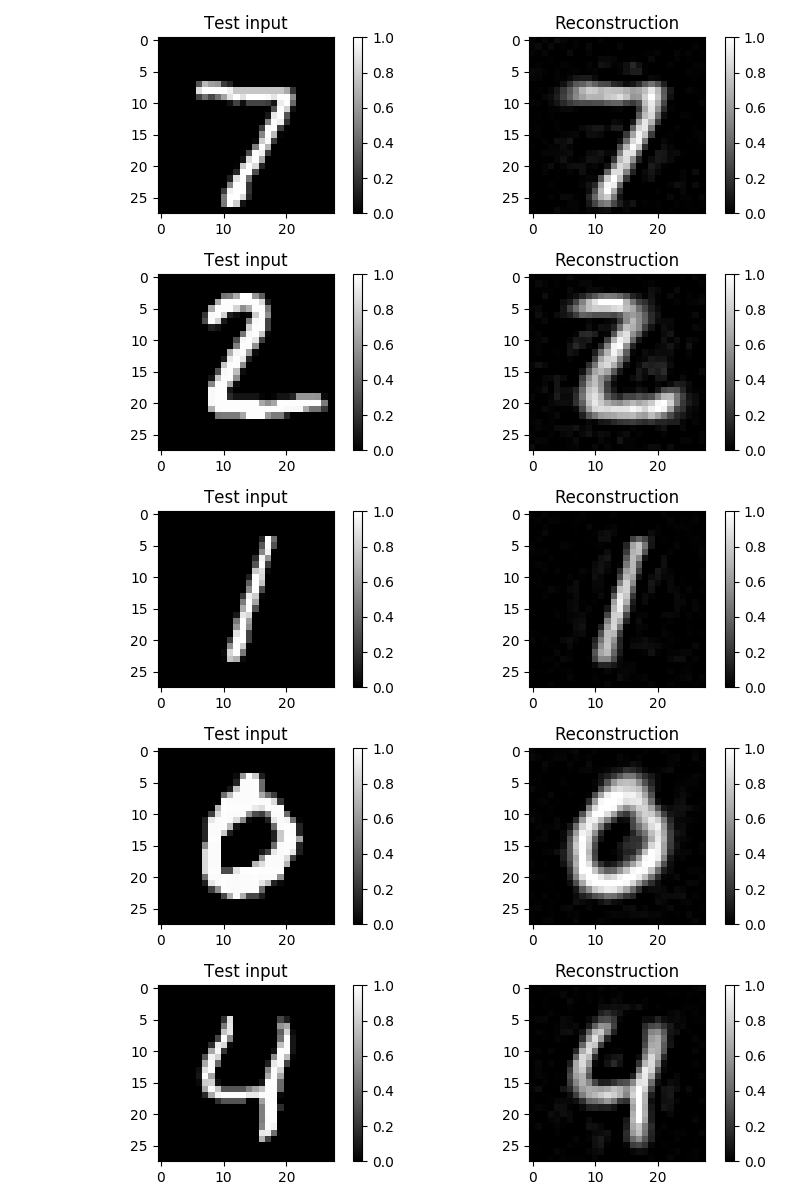
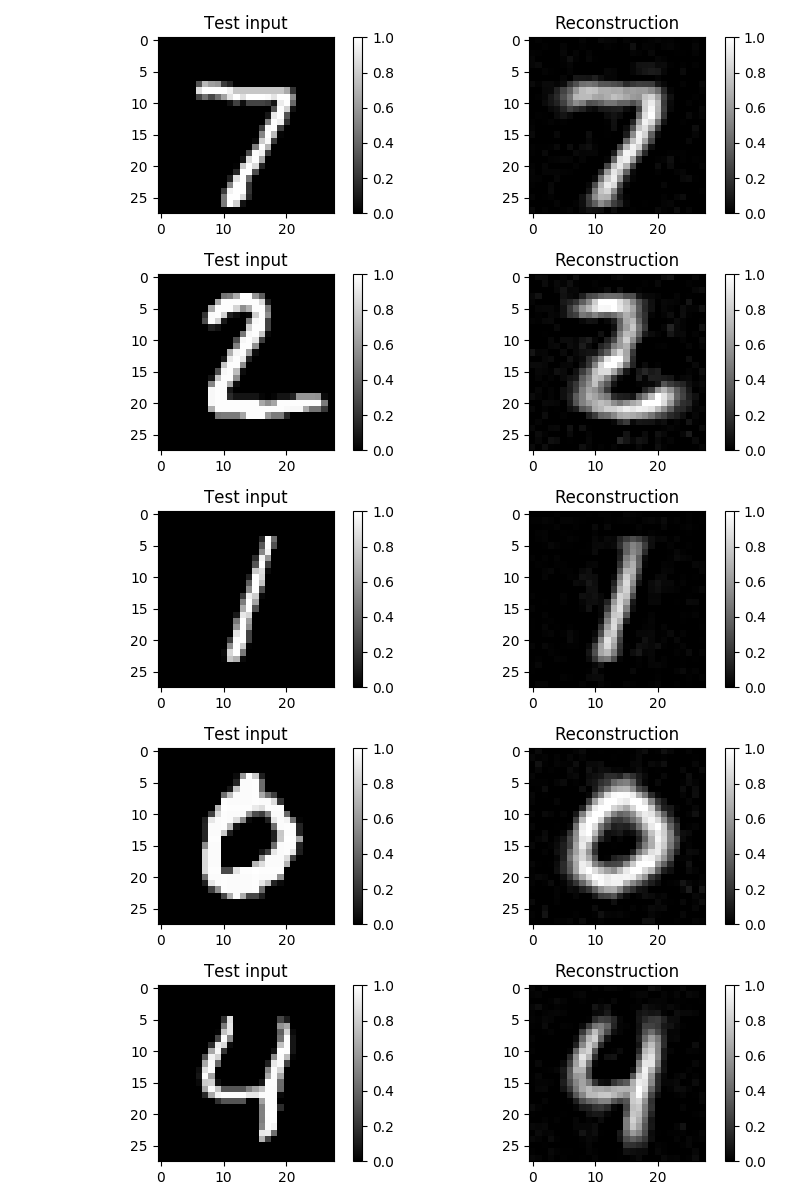
test noisy reconstruction

diff --git a/train_semi_supervised.py b/train_semi_supervised.py
@@ -11,6 +11,7 @@ from VAE.classifier import softmax_classifier
 from VAE.semi_supervised.decoder import generator_network
 from VAE.semi_supervised.encoder import recognition_network
 from VAE.utils.MNSIT_prepocess import preprocess_train_data
+from VAE.utils.distributions import tf_normal_logpdf
 from VAE.utils.metrics import cls_accuracy, print_test_accuracy, convert_labels_to_cls, plot_images
 
 sys.path.append(os.getcwd())
@@ -119,7 +120,7 @@ def compute_unlabeled_loss():
 
 
 def reconstruction_loss():
-    return tf.reduce_sum(tf.squared_difference(x_hat, x), 1)
+    return -tf.reduce_sum(tf_normal_logpdf(x, x_hat, x_logvar), axis=1)
 
 
 def predict_cls(images, labels, cls_true):
@@ -184,7 +185,7 @@ if __name__ == '__main__':
     # Encoder Model
     z_latent_rep, recognition_loss, y_regularization_loss, y_logits, weights = recognition_network(FLAGS, x)
     # Decoder Model
-    x_hat = generator_network(FLAGS=FLAGS, y_logits=y_logits, z_latent_rep=z_latent_rep)
+    x_hat, x_logvar = generator_network(FLAGS=FLAGS, y_logits=y_logits, z_latent_rep=z_latent_rep)
     # Loss and Optimization
     labeled_loss = compute_labeled_loss()
     unlabeled_loss = compute_unlabeled_loss()

diff --git a/VAE/semi_supervised/decoder.py b/VAE/semi_supervised/decoder.py
@@ -9,6 +9,7 @@ def generator_network(FLAGS, y_logits, z_latent_rep):
     w_h3, b_h3 = create_h_weights('h3', 'decoder', [FLAGS['latent_dim'], FLAGS['decoder_h_dim']])
     w_h4, b_h4 = create_h_weights('h4', 'decoder', [FLAGS['decoder_h_dim'], FLAGS['decoder_h_dim']])
     w_mu, b_mu = create_h_weights('mu', 'decoder', [FLAGS['decoder_h_dim'], FLAGS['input_dim']])
+    w_var, b_var = create_h_weights('var', 'decoder', [FLAGS['decoder_h_dim'], FLAGS['input_dim']])
     # Model
     # Decoder hidden layer
     h3 = activated_neuron(pz1_given_z2y(FLAGS=FLAGS, y_logits=y_logits, z_latent_rep=z_latent_rep), w_h3, b_h3)
@@ -16,8 +17,9 @@ def generator_network(FLAGS, y_logits, z_latent_rep):
 
     # Reconstruction layer
     x_mu = non_activated_neuron(h4, w_mu, b_mu)
+    x_logvar = non_activated_neuron(h4, w_var, b_var)
     tf.summary.image('x_mu', tf.reshape(x_mu[0], [1, 28, 28, 1]))
-    return x_mu
+    return x_mu, x_logvar
 
 
 def pz1_given_z2y(FLAGS, y_logits, z_latent_rep):
